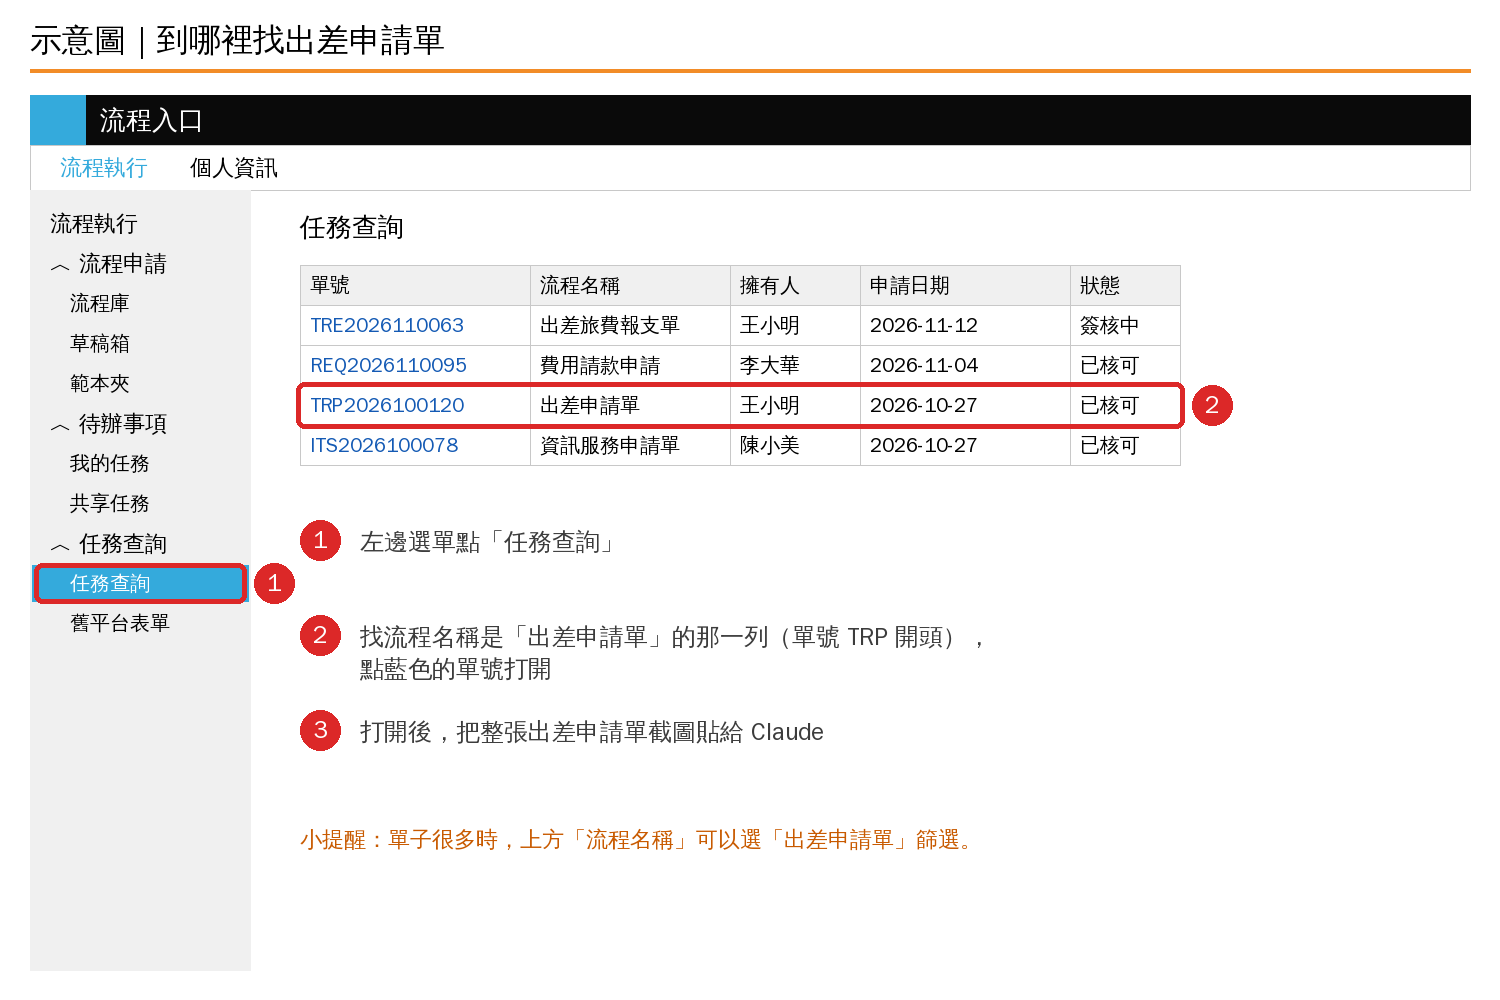
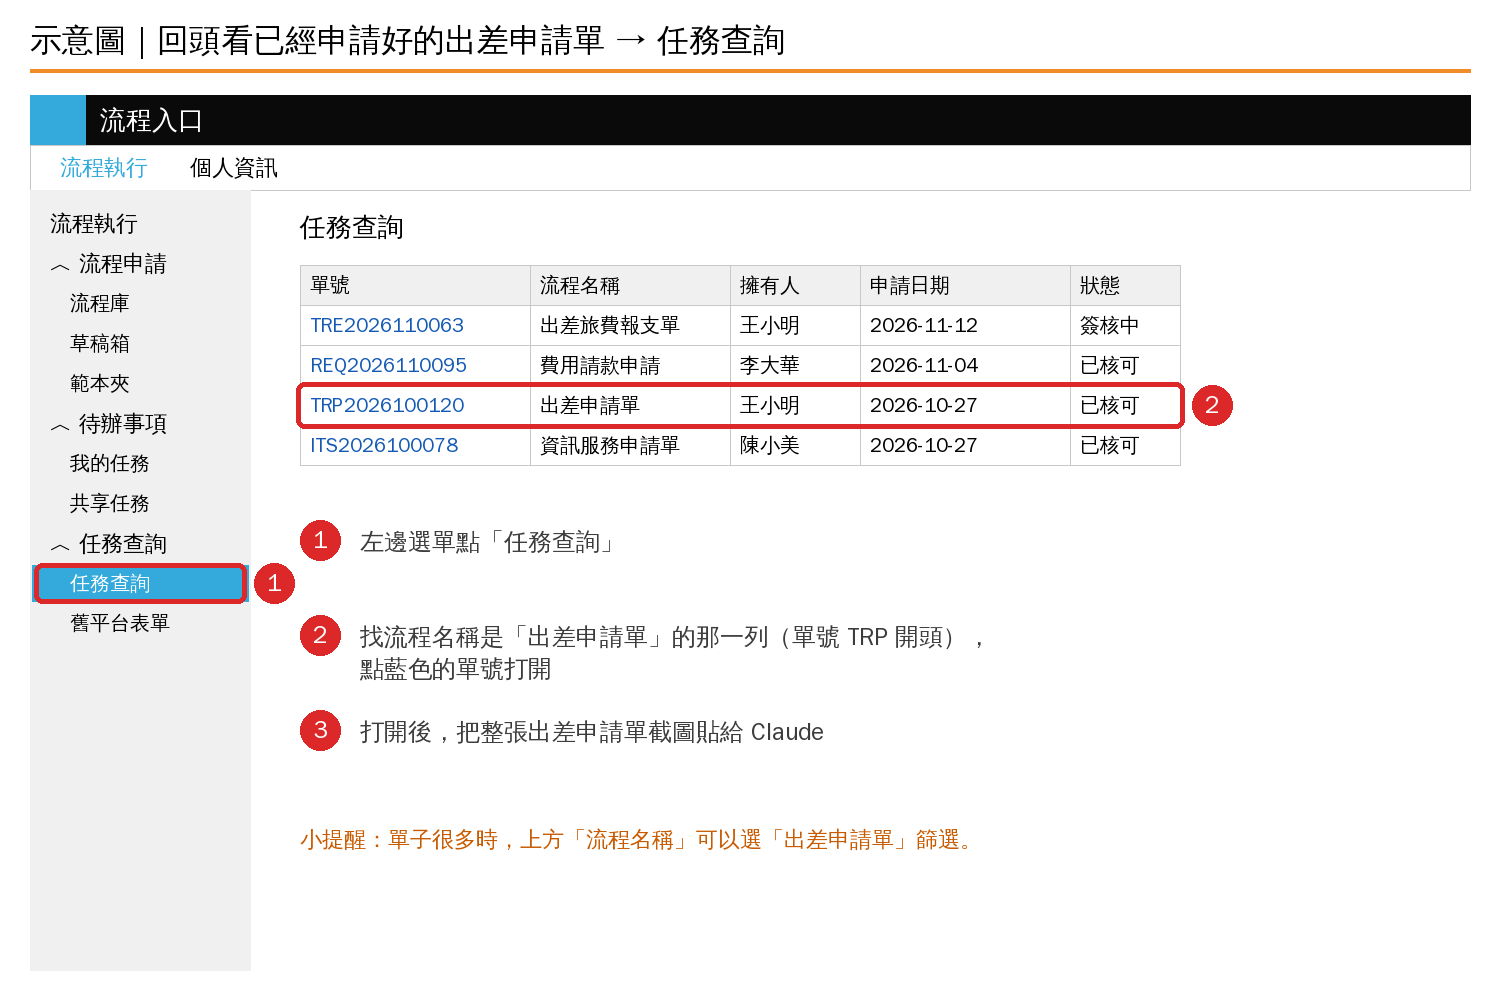
BizTrip_expense: separate where to apply (流程庫) from where to look up (任務查詢)
Claude-Session: https://claude.ai/code/session_01W6nKRXawHFaZJUXdwehsJm

Changed region(s): [[0.092, 0.0, 0.3987, 0.062], [0.4293, 0.031, 0.5213, 0.062]]

diff --git a/.claude/skills/BizTrip_expense/references/system-fields.md b/.claude/skills/BizTrip_expense/references/system-fields.md
@@ -8,8 +8,8 @@
 
 | 要做什麼 | 路徑 |
 |----------|------|
-| 找已申請的出差申請單 | 流程執行 → 左邊「任務查詢」→ 流程名稱「出差申請單」（單號 TRP 開頭）→ 點單號打開 |
-| 開新的出差旅費報支單 | 流程執行 → 左邊「流程申請」底下「流程庫」→ 流程目錄「HR」→「出差旅費報支單」 |
+| 回頭看已申請好的出差申請單 | 流程執行 → 左邊「任務查詢」→ 流程名稱「出差申請單」（單號 TRP 開頭）→ 點單號打開 |
+| 新開一張出差旅費報支單（申請） | 流程執行 → 左邊「流程申請」底下「流程庫」→ 流程目錄「HR」→「出差旅費報支單」 |
 | 查已送出的報支單 | 同「任務查詢」，流程名稱「出差旅費報支單」（單號 TRE 開頭） |
 
 示意圖在 `assets/示意圖/`。
